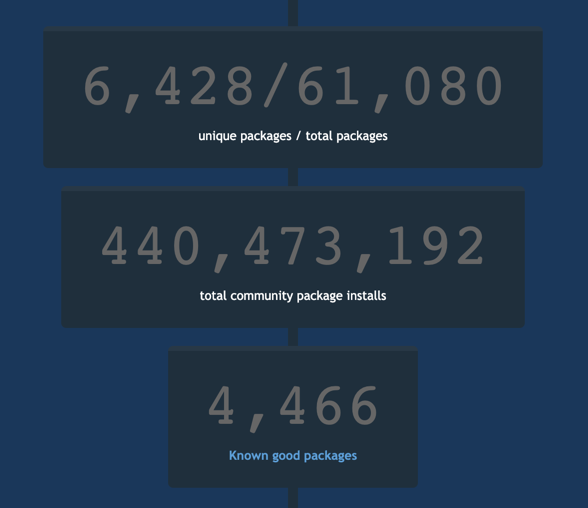
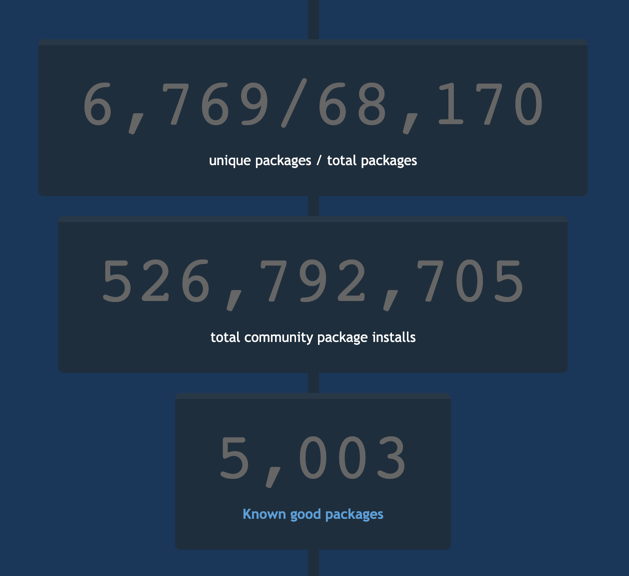
(doc) Add community repository slide

diff --git a/PITCHME.md b/PITCHME.md
@@ -179,6 +179,13 @@ choco upgrade all
 ```
 
 +++
+@title[Community Repository]
+
+### Community Repository
+
+![Community Repository](assets/img/community_repo.png)
+
++++
 @title[What is the catch?]
 
 ### What is the catch?
